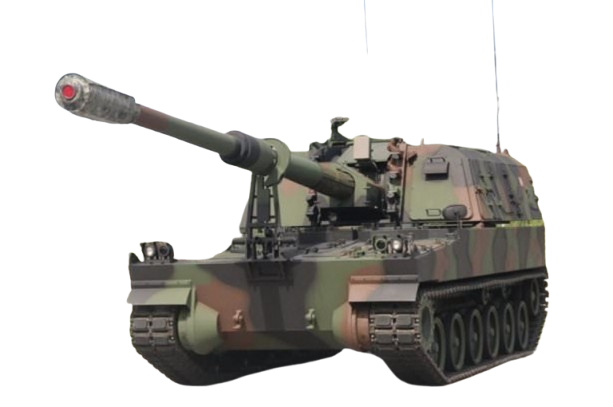
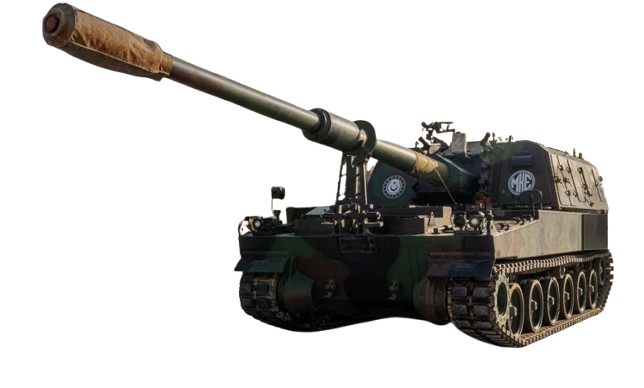
güncellemeler

diff --git a/savunma-sanayi.html b/savunma-sanayi.html
@@ -448,7 +448,7 @@ gibi tüm süreçler, yetkin kadromuz ve entegre üretim alanlarımızda yüksek
           </div><!-- Content col end -->
           <div class="col-lg-6">
             <div id="department-slider" class="department-slider small-bg">
-              <div class="item" style="background-image:url(images/sanzumanlar/firtina-obus.png);background-position: center;background-size: cover;"  ></div>
+              <div class="item" style="background-image:url(images/sanzumanlar/STA.png);background-position: center;background-size: cover;"  ></div>
             </div><!-- Page slider end-->
           </div><!-- Slider col end -->
         </div><!-- Row end -->
